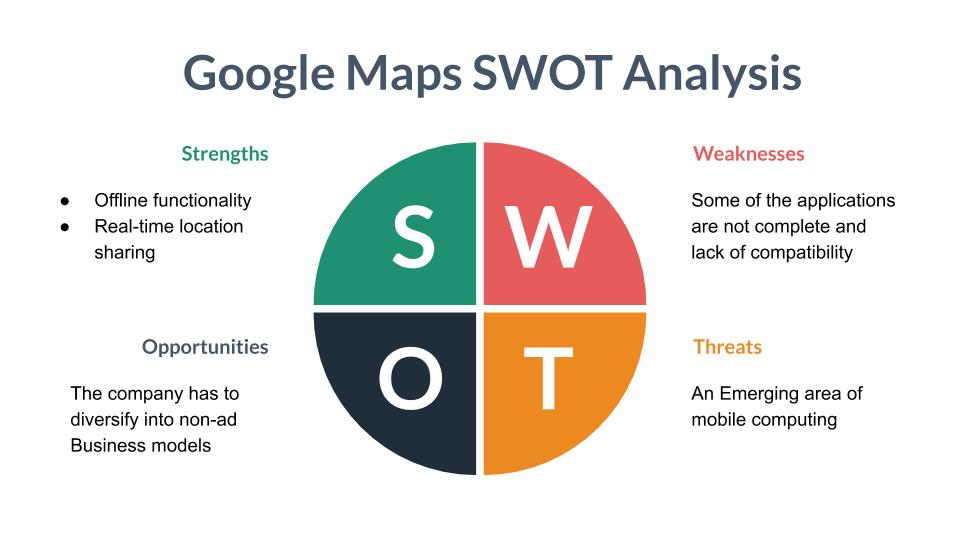
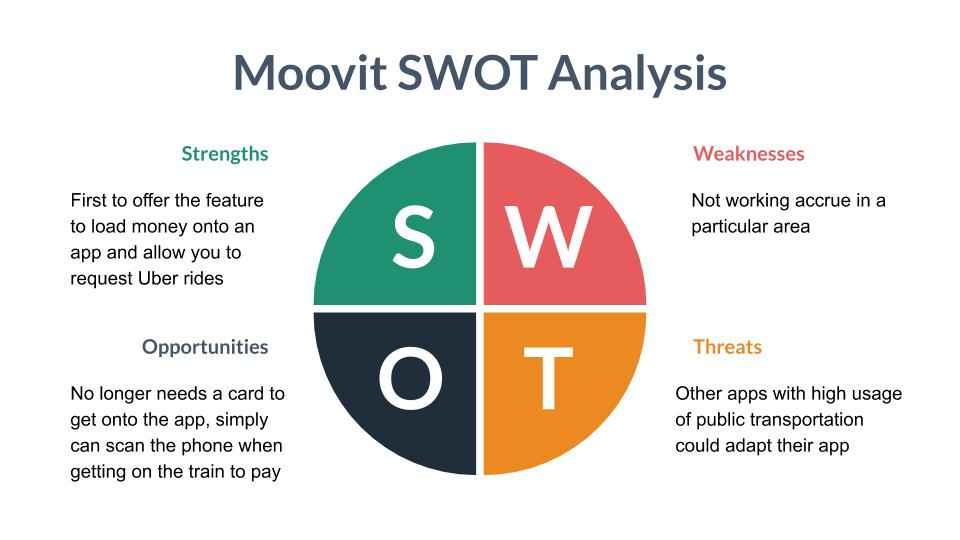
new updated

diff --git a/project2.html b/project2.html
@@ -107,9 +107,13 @@
           complaining the most about the bus stop at Washington and State, which
           has seven bus lines serving the stop.
         </h4>
-        <b
-          ><a class="prototype" href="url">View Desktop Prototype |</a>
-          <a class="prototype" href="url">View Mobile Prototype</a></b
+        <b>
+          <a
+            class="prototype"
+            href="https://projects.invisionapp.com/prototype/ck7wize5e000ayh015qxj9r8p/play"
+            target="_blank"
+            >View Mobile Prototype</a
+          ></b
         >
         <p>
           <b>Role:</b> UX Design, Visual Design, Brand Identity<br />
@@ -162,7 +166,12 @@
           surveyed regarding their mobile-app public transportation preferences
           and attitudes.
         </h4>
-        <a href="" class="invisionbus">VIEW BUS SURVEY</a>
+        <a
+          href="https://forms.gle/Q46BvSMNQMwmXYZU7"
+          target="_blank"
+          class="invisionbus"
+          >VIEW BUS SURVEY</a
+        >
         <img class="satisfaction" src="images/busybus/bb1.png" alt="bb1" />
         <img class="trip" src="images/busybus/bb2.png" alt="bb2" />
         <h4>
@@ -241,7 +250,12 @@
           limitations to keep in mind. When downloading maps for offline use,
           you’ll only be able to access driving directions, since transit,
           bicycling, and walking directions are only available online.<br /><br />
-          <b>Complete SWOT Analysis <a href="#" style="color:blue">Here</a></b>
+          <b
+            >Complete SWOT Analysis
+            <a href="images/busybus/BusyBus I.jpg" style="color:blue"
+              >Here</a
+            ></b
+          >
         </h4>
         <img class="moovit" src="images/busybus/bb4.png" alt="bb4" />
         <h4>
@@ -278,7 +292,12 @@
           distinction from other transit apps is its massive database of user
           data. The company combines publicly available data with live
           information from 60 million users.<br /><br />
-          <b>Complete SWOT Analysis <a href="#" style="color:blue">Here</a></b>
+          <b
+            >Complete SWOT Analysis
+            <a href="images/busybus/BusyBus II.jpg" style="color:blue"
+              >Here</a
+            ></b
+          >
         </h4>
         <img class="ipersona" src="images/persona.png" alt="persona" />
         <h3>User Personas</h3>
@@ -319,11 +338,16 @@
         <img class="icons" src="images/map.png" alt="map" />
         <h3>Mapping the MVP with user stories & flows</h3>
         <h4>
-          To create <a href="#" style="color:blue">list of user stories</a>, I
-          concentrated on the features that the app should have based on the
-          main concerns and findings from the survey. I work mainly on all the
-          stories that I deemed “high priority”, but I also included 2 “medium
-          priority stories” to come out with a well-rounded MVP.
+          To create
+          <a
+            href="https://docs.google.com/spreadsheets/d/1VkuyGzxjyVg8CJwVSSw7F6LjuVSSJDMR3bSnsR6mjj4/edit?usp=sharing"
+            target="_blank"
+            style="color:blue"
+            >list of user stories</a
+          >, I concentrated on the features that the app should have based on
+          the main concerns and findings from the survey. I work mainly on all
+          the stories that I deemed “high priority”, but I also included 2
+          “medium priority stories” to come out with a well-rounded MVP.
         </h4>
 
         <!-- Branding & Identity -->
@@ -371,7 +395,12 @@
           validate my design decisions through testing. To do this, I conducted
           Usability Tests with 3 participants with this prototype in-person
           usability tests using a wireframe clickable prototype and a
-          <a href="#" style="color:blue">test script.</a>
+          <a
+            href="https://docs.google.com/document/d/1olmgHPL7JVILRa9z-7asQ9yhKtKgomTAt_BWqX1TDh8/edit?usp=sharing"
+            target="_blank"
+            style="color:blue"
+            >test script.</a
+          >
         </h4>
         <img class="buswireframe" src="images/busybus/bb8.png" alt="bb8" />
         <h6>Wireframes: Bus map and real-time tracking</h6>
@@ -409,7 +438,12 @@
           long before the car, and will still be around after all the cars are
           gone.
         </h4>
-        <a href="" class="invision">VIEW INVISION PROTOTYPE</a>
+        <a
+          href="https://projects.invisionapp.com/prototype/ck7wize5e000ayh015qxj9r8p/play"
+          target="_blank"
+          class="invision"
+          >VIEW INVISION PROTOTYPE</a
+        >
         <img class="iresults" src="images/results.png" alt="results" />
         <h3>User Testing Results</h3>
         <br />
@@ -461,7 +495,12 @@
             <em>
               The final Cube Cloud prototype after both rounds of user testing
               and iterations can be viewed
-              <a href="#" style="color:blue">here.</a>
+              <a
+                href="https://projects.invisionapp.com/prototype/ck7wize5e000ayh015qxj9r8p/play"
+                target="_blank"
+                style="color:blue"
+                >here.</a
+              >
             </em>
           </p>
 

diff --git a/project1.html b/project1.html
@@ -96,7 +96,11 @@
             For
           </h7>
           my first project as a UX Design Apprentice at
-          <a class="bloc" href="https://www.bloc.io/" style="color:blue"
+          <a
+            class="bloc"
+            href="https://www.bloc.io/"
+            target="_blank"
+            style="color:blue"
             >Bloc</a
           >
           , I was tasked to design a cloud storage application and brand that
@@ -292,6 +296,7 @@
           Keeping these personas in mind, I compiled a
           <a
             href="https://docs.google.com/spreadsheets/d/1A0zAQgqPDv5fUxtWud-e2nXwpyLGuGZ7LbcawUDDMo0/edit?usp=sharing"
+            target="_blank"
             style="color:blue"
             >list of user stories</a
           >
@@ -379,6 +384,7 @@
           usability tests using a wireframe clickable prototype and a
           <a
             href="https://docs.google.com/document/d/1olmgHPL7JVILRa9z-7asQ9yhKtKgomTAt_BWqX1TDh8/edit?usp=sharing"
+            target="_blank"
             style="color:blue"
             >test script.</a
           >
@@ -573,6 +579,7 @@
               and iterations can be viewed
               <a
                 href="https://projects.invisionapp.com/prototype/ck7wed78f00294i01doligmnv/play"
+                target="_blank"
                 style="color:blue"
                 >here.</a
               >
